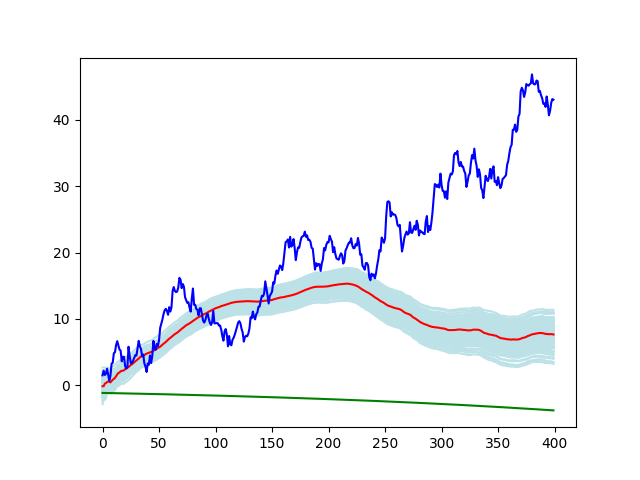
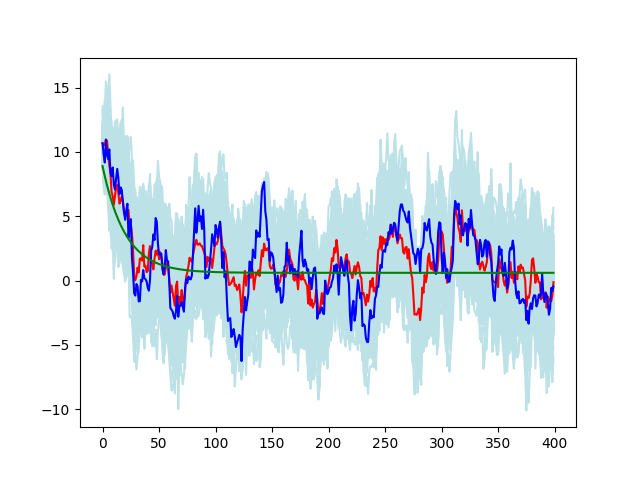
update enkf

diff --git a/EnKF/src/enkf.py b/EnKF/src/enkf.py
@@ -1,8 +1,9 @@
 import numpy as np
 from random import gauss
-import matplotlib.pyplot as plt 
+import matplotlib.pyplot as plt
+from lorenz96 import Lorenz96, bulk_Lorenz96
 
-def Model(x:np.ndarray) -> np.ndarray:
+def Model1(x:np.ndarray) -> np.ndarray:
     """
     理想的なモデル．各状態変数は前の状態の1.003倍になる
     """
@@ -11,54 +12,61 @@ def Model(x:np.ndarray) -> np.ndarray:
                  [0,0,1.003]])
     return F@x
 
-def get_error(m: np.ndarray, N: int)->np.ndarray:
-    return m @ (np.eye(N)-np.full((N, N), 1/N))
-
-def get_cov(m: np.ndarray, N: int)->np.ndarray:
-    m_ = get_error(m, N)
-    return m_@m_.T/(N-1)
-    
-
-def main():
-    
-    # 各タイムステップでのメンバを格納するリスト    
-    
-    # 設定
-    N:int = 128  # メンバ数
-    time_step = 400  # タイムステップ
-    R = np.eye(2)
+def operator1(m: np.ndarray): # 解析データto観測データの変換
     H = np.array([[1/2, 1/2, 0],
                   [0, 1/2, 1/2]])
-    each_member = np.zeros((N, time_step))
-    open_list = []
-    
+    return H@m
+
+def get_error(m: np.ndarray, N: int)->np.ndarray: # 誤差行列を求める
+    return m @ (np.eye(N)-np.full((N, N), 1/N))
+
+def get_cov(m: np.ndarray, N: int)->np.ndarray: # 誤差分散共分散行列を求める
+    m_ = get_error(m, N)
+    return m_@m_.T/(N-1)
+
+
+
+def main():
     # 観測データ
     obs = np.loadtxt('out/u_obs.csv', 
                      delimiter=',', dtype='float64')
+    # (仮の)真値
     n_true = np.loadtxt('out/u_true.csv', 
-                     delimiter=',', dtype='float64')
+                     delimiter=',', dtype='float64') 
     
-    # 初期メンバ
+    # 設定
+    Model:function = Lorenz96
+    bulk_model:function = bulk_Lorenz96
+    operator:function = operator1
+    N:int = 128  # メンバ数
+    time_step = obs.shape[1]  # タイムステップ
+    R = np.eye(2)
+    each_member = np.zeros((N, time_step))
+    open_list = [] 
+    
+    # 初期メンバ生成
     A_ini = np.zeros((3, N))
     for member in range(N):
-        A_ini[0, member] = 0+gauss()
-        A_ini[1, member] = 2+gauss()
-        A_ini[2, member] = 4+gauss()
+        A_ini[:, member:member+1] = n_true[:, 0:1]+np.array([[gauss()], [gauss()], [gauss()]])
     
-    A_ini_open = np.array([[0+gauss()],[2+gauss()],[4+gauss()]])
+    A_ini_open = n_true[:, 0:1]
     open_list.append(A_ini_open[0,0])
-        
     each_member[:, 0:1] = A_ini[0:1, :].T
     
-    
+    # main loop
     for time in range(1, time_step):
-        A_f = Model(A_ini)
-        # P_f = get_cov(A_f, N)
+        A_f = bulk_model(A_ini)
         Z = get_error(A_f, N)/((N-1)**0.5)
-        Y = get_error(H@A_f, N)/((N-1)**0.5)
+        Y = get_error(operator(A_f), N)/((N-1)**0.5)
         drand = np.random.standard_normal((2, N))
-        K = Z@Y.T@np.linalg.inv(Y@Y.T+R)
-        A_ini = A_f + K@(np.tile(obs[:,time:time+1], (1, N)) + drand - H@A_f)
+        K = (Z @ Y.T @ np.linalg.inv(Y@Y.T+R))
+        if time==1:
+            print(K)
+        A_ini = A_f + K@(np.tile(obs[:,time:time+1], (1, N)) + drand - (operator(A_f)))\
+                + np.random.standard_normal((3, N))
+        #NOTE:分散が収束するのを防ぐためにad hocにランダムな行列を追加している
+        #多分分かってないだけなのでサーベイが必要
+         
         each_member[:, time:time+1] = A_ini[0:1, :].T
         A_ini_open = Model(A_ini_open)
         open_list.append(A_ini_open[0,0])
@@ -71,7 +79,6 @@ def main():
     ax = fig.add_subplot(1,1,1)
     for member in range(N):
         ax.plot(each_member[member], color='#bce2e8')
-        pass
         
     mean_of_member = np.mean(each_member, axis=0)
     ax.plot(mean_of_member, color='red')

diff --git a/EnKF/src/lorenz96.py b/EnKF/src/lorenz96.py
@@ -12,7 +12,7 @@ def Runge_Kutta(u:np.ndarray, dt:float, dif_func):
     du += (s1 + s2*2 + s3*2 + s4) * (dt / 6)
     return du
 
-def Lorenz96(u_ini:np.ndarray=np.ones((40,1)), F:float=8)->np.ndarray:
+def Lorenz96(u_ini:np.ndarray=np.ones((40,1)), F:float=0.6)->np.ndarray:
     """
     input: u_t(state matrix at time t, dtype:numpy.ndarray(N, 1)),
     F(ext. force term in L96)
@@ -29,6 +29,13 @@ def Lorenz96(u_ini:np.ndarray=np.ones((40,1)), F:float=8)->np.ndarray:
         return f
     
     return Runge_Kutta(u_ini, 0.05, L96_dif_func)    
+
+def bulk_Lorenz96(E:np.ndarray):
+    for i in range(int(E.shape[1])):
+        E[:, i:i+1] = Lorenz96(E[:, i:i+1])
+    return E
+        
+    
 
 if __name__ == '__main__':
     u1_list, u2_list, u3_list = [], [], []

diff --git a/EnKF/src/create_data.py b/EnKF/src/create_data.py
@@ -1,8 +1,9 @@
 from random import gauss
 import numpy as np
 import matplotlib.pyplot as plt
+from lorenz96 import Lorenz96, bulk_Lorenz96
 
-def Model(x:np.ndarray) -> np.ndarray:
+def Model_example(x:np.ndarray) -> np.ndarray:
     """
     理想的なモデル．各状態変数は前の状態の2倍になる
     """
@@ -20,12 +21,12 @@ def main():
     # タイムステップは400まで
     # code上は0~399
     time_step = 400
-    
+    Model:function = Lorenz96
     
     # 真値の作成
     # u_t+1 = 1.003*u_t+誤差項(~N(0,1))    
     u_true = np.zeros((3, 400))
-    init = [[0+gauss()], [2+gauss()], [4+gauss()]]
+    init = [[10+gauss()], [20+gauss()], [30+gauss()]]
     print(init)
     u_true[:, 0:1] = np.array(init)
     
